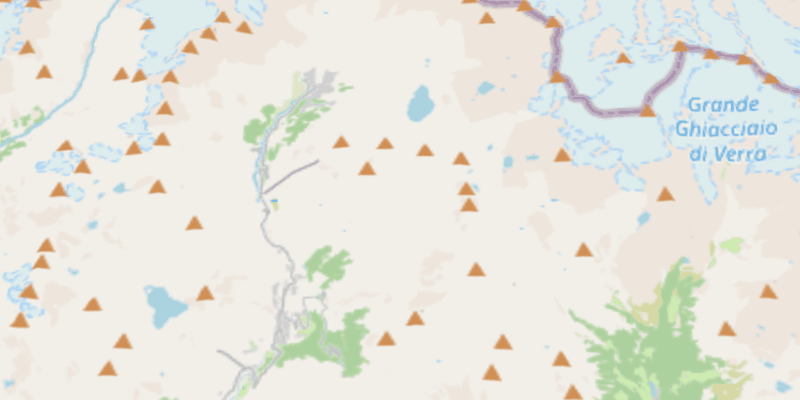
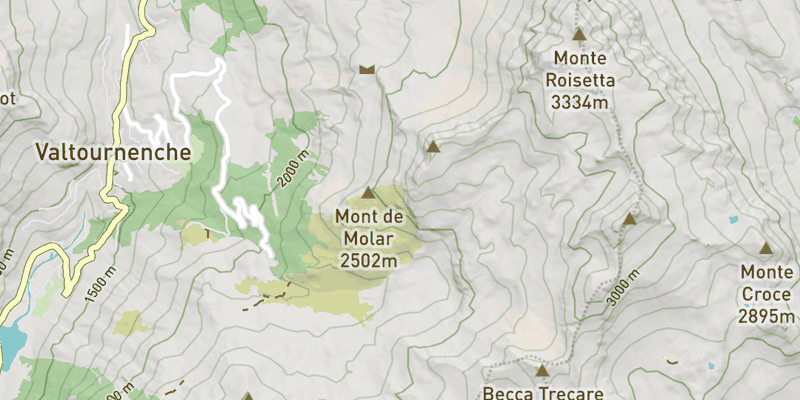
feat(demo): show the 2D/3D switch on a composite layer an app would actually ship (#253)
* fix(styles): make the demo's hillshade relief readable instead of almost invisible

The `#hillshade` slot was drawing all along - placed, configured, and loading its DEM -
but `hillshade-contrast: 0.26` against this pale palette put the lit and shaded slopes
within a couple of grey levels of each other, so the relief could not be read.

Measured with devtap diff, top-down at Valtournenche z12.5: contrast 0.26 -> 0.55 moves
32-66% of the pixels in a band (mean delta 15.5), and saturates immediately after (0.55
-> 0.8 moves 2%, delta 2.5), so the remaining gain comes from exaggeration - a further
5-8% of pixels.

terrain.less is shared, so `osm`, `streets`, `outdoors` and `eink` all get the stronger
relief.

* feat(demo): show the 2D/3D switch on a composite layer an app would actually ship

The example switched a RASTER basemap, which is the one case where flattening is cheap -
so it demonstrated the switch without demonstrating what the switch costs. It now drives
the demo's own OSM style (23 layers over nine .less files, its own fonts and shields)
through a CompositeVectorTileLayer with a hillshade and generated contours woven into the
style's layer order, plus a shadows toggle.

One DEM behind all three consumers - the terrain mesh, the hillshade slot and the contour
generator - so a tile is fetched, cached and decoded once. The slots need no style edit:
base.json already lists `hillshade` and `contour`, between `transportation` and
[…]

diff --git a/scripts/android-dev/app/src/main/assets/style/shared/terrain.less b/scripts/android-dev/app/src/main/assets/style/shared/terrain.less
@@ -1,8 +1,11 @@
 #hillshade[zoom>=4][zoom<=19] {
 	hillshade-illumination-direction: 365;
 	hillshade-shadow-color: #473B24;
-	hillshade-contrast: 0.26;
-	hillshade-exaggeration: linear([view::zoom], (4, 0.6), (12, 1));
+	// The shipped 0.26 / 1.0 pair drew relief that was there but unreadable on this pale palette.
+	// Measured top-down at Valtournenche z12.5: 0.26 -> 0.55 moved half the frame's pixels, and
+	// contrast saturates past that (0.55 -> 0.8 moved 2%), so the rest comes from exaggeration.
+	hillshade-contrast: 0.55;
+	hillshade-exaggeration: linear([view::zoom], (4, 1.2), (12, 2.5));
 }
 
 #mountain_peak {

diff --git a/scripts/android-dev/app/src/main/java/com/massifmaps/MassifDemo/examples/terrain/Switch2D3DExample.java b/scripts/android-dev/app/src/main/java/com/massifmaps/MassifDemo/examples/terrain/Switch2D3DExample.java
@@ -4,26 +4,36 @@ import com.massifmaps.MassifDemo.examples.ExampleHost;
 import com.massifmaps.MassifDemo.examples.ExampleInfo;
 import com.massifmaps.MassifDemo.examples.MapExample;
 import com.massifmaps.MassifDemo.examples.Sections;
+import com.massifmaps.api.MassifLayer;
 import com.massifmaps.api.MassifMap;
+import com.massifmaps.api.MassifSource;
 import com.massifmaps.api.Position;
 import com.massifmaps.api.Spec;
 
 /**
- * The 2D/3D switch, and every way of driving it: the SDK's own animation, a tilt gesture, and the
- * app's own clock for an exact match to a camera flight.
+ * The 2D/3D switch on the map an app actually ships: a composite layer carrying the demo's own
+ * OSM style, a hillshade and contours over one shared DEM, with shadows on top. Everything that
+ * costs something when the ground moves is in the frame at once, which is the point - the switch
+ * is cheap on a raster basemap with a toy style, and that is not what an app sees.
  */
 @ExampleInfo(
     id = "terrain-2d-3d",
     title = "2D / 3D switch",
-    description = "One flag switches the map between flat and 3D terrain. Full switch decides "
-                + "whether a flat map still pays for 3D, auto by tilt lets a tilt gesture do the "
-                + "switching, and match flight drives the terrain off the camera's own clock.",
+    description = "One flag switches a composite layer - a full OSM style, hillshade and contours "
+                + "over one shared DEM - between flat and 3D terrain. Full switch decides whether a "
+                + "flat map still pays for 3D, auto by tilt lets a tilt gesture do the switching, "
+                + "match flight drives the terrain off the camera's own clock, and shadows show what "
+                + "the switch costs with a shadow pass in the frame.",
     section = Sections.TERRAIN,
     order = 15)
 public class Switch2D3DExample extends MapExample {
 
     private static final String UA =
         "MassifMapsExamples/1.0 (+https://github.com/massif-maps/MassifMaps)";
+
+    /** CompositeSourceType, as the facade takes it. RASTER is 0 and is not used here. */
+    private static final long SOURCE_HILLSHADE = 1;
+    private static final long SOURCE_VECTOR = 2;
 
     /** What the 3D view looks AT. The viewpoint it is seen from is derived - see frameFlatStart. */
     private static final Position SUMMIT = new Position(7.6586, 45.9763);
@@ -66,17 +76,43 @@ public class Switch2D3DExample extends MapExample {
         this.host = host;
         this.map = host.map();
 
-        map.addLayer("basemap", Spec.of("raster")
+        // ONE DEM behind all three consumers - the terrain mesh, the hillshade slot and the
+        // contour generator - so a tile is fetched, cached and decoded once. Given an id because
+        // the specs below reference it by name.
+        MassifSource dem = map.source("dem", dem(host));
+        // Contours are GENERATED from that DEM, as ordinary vector tiles carrying 'ele' and 'div'.
+        MassifSource contours = map.source("contours", Spec.of("contour").set("source", "dem"));
+
+        // The demo app's own OSM style, a real one: 23 layers over nine .less files, its own fonts
+        // and shields, and `hillshade` and `contour` already among its layers. A `bundle` package
+        // is the APK's assets on Android and the app bundle's files on iOS.
+        map.style("osm", Spec.of("mbvt")
+            .set("project", Spec.of("project")
+                .set("assets", Spec.of("bundle").set("path", "style"))
+                .set("name", "osm")));
+
+        // A composite layer weaves the two external sources into the STYLE's own layer order:
+        // base.json lists "hillshade" and "contour" between `transportation` and
+        // `transportation_name`, so the relief goes under the road casings and the contour labels
+        // compete with the road names for a slot - which is the ordering an app actually ships.
+        MassifLayer base = map.addLayer("basemap", Spec.of("composite-vector")
             .set("source", Spec.of("persistent-cache")
-                .set("databasePath", host.cachePath("osm-raster.db"))
+                .set("databasePath", host.cachePath("openfreemap.db"))
                 .set("capacity", 100 * 1024 * 1024)
                 .set("source", Spec.of("http")
-                    .set("url", "https://tile.openstreetmap.org/{z}/{x}/{y}.png")
-                    .set("maxZoom", 19)
-                    // OSM's tile policy REQUIRES an identifying User-Agent, or every tile is a 403.
-                    .set("HTTPHeaders", Spec.object().set("User-Agent", UA)))));
+                    .set("url", "https://tiles.openfreemap.org/planet/latest/{z}/{x}/{y}.pbf")
+                    .set("maxZoom", 14)
+                    .set("HTTPHeaders", Spec.object().set("User-Agent", UA))))
+            .set("style", "osm"));
+        // The slot NAME is the style layer name. Hillshade needs no elevation decoder passed: it
+        // reads dem_encoding off the source, which is where the terrain reads it too. Its own
+        // `#hillshade[zoom>=4][zoom<=19]` config rule is what bounds it.
+        base.call("addExternalDataSource", "hillshade", dem.handle(), SOURCE_HILLSHADE);
+        // A VECTOR slot carries no config symbolizer - the style's ordinary line and text rules
+        // zoom-filter it in the decode, and terrain.less starts the coarse divisors at zoom 12.
+        base.call("addExternalDataSource", "contour", contours.handle(), SOURCE_VECTOR);
 
-        map.terrain(Spec.of("terrain").set("source", dem(host)))
+        map.terrain(Spec.of("terrain").set("source", "dem"))
            .apply(Spec.object()
                // Configured and left on. The switch is `flattened`, and it opens flat - set BEFORE
                // any layer decodes, so not one tile is built for a 3D the map has not shown.
@@ -95,7 +131,9 @@ public class Switch2D3DExample extends MapExample {
         // The sun comes from BEHIND the camera or the face being looked at is the one in shadow.
         // This view is of the SOUTH side, so the light is south.
         map.light(Spec.of("light").set("terrainLightingEnabled", true)
-                                  .set("sunAzimuth", 170).set("sunAltitude", 42));
+                                  .set("sunAzimuth", 170).set("sunAltitude", 42)
+                                  .set("shadowStrength", 0.0)
+                                  .set("shadowSoftness", 1.5));
 
         frameFlatStart();
 
@@ -128,6 +166,16 @@ public class Switch2D3DExample extends MapExample {
                     on ? "TERRAIN_FLATTEN_MODE_FULL" : "TERRAIN_FLATTEN_MODE_RENDER");
                 host.caption(on ? "FULL: flat costs nothing, each switch re-decodes the visible tiles."
                                 : "RENDER: switching is free, but flat still carries 3D's triangles.");
+            }
+        });
+        host.toggle("Shadows", false, new ExampleHost.OnToggle() {
+            @Override
+            public void onToggle(boolean on) {
+                // 1 is the physically correct strength; 0 is off, and skips the shadow pass.
+                map.light().set("shadowStrength", on ? 1.0 : 0.0);
+                host.caption(on ? "Shadows on: watch them flatten WITH the ground, not after it - "
+                                + "the cascades follow the same ratio the terrain is ramping."
+                                : "Shadows off: no shadow pass, so the switch is as cheap as it gets.");
             }
         });
         host.toggle("Auto by tilt", false, new ExampleHost.OnToggle() {

diff --git a/scripts/ios-dev/MassifDemo/Examples/MSFSwitch2D3DExample.m b/scripts/ios-dev/MassifDemo/Examples/MSFSwitch2D3DExample.m
@@ -5,8 +5,10 @@
 #import "api/MSFMassifObject.h"
 
 /**
- * The 2D/3D switch, and every way of driving it: the SDK's own animation, a tilt gesture, and the
- * app's own clock for an exact match to a camera flight.
+ * The 2D/3D switch on the map an app actually ships: a composite layer carrying the demo's own OSM
+ * style, a hillshade and contours over one shared DEM, with shadows on top. Everything that costs
+ * something when the ground moves is in the frame at once, which is the point - the switch is cheap
+ * on a raster basemap with a toy style, and that is not what an app sees.
  *
  * The Objective-C twin of the Android example with the same id - see
  * scripts/android-dev/.../examples/terrain/Switch2D3DExample.java.
@@ -43,6 +45,9 @@ static const float kTilt3D = 20.0f;
 static const float kAutoTilt = 88.0f;
 /** How often the matched ramp samples the flight. */
 static const NSTimeInterval kTick = 0.032;
+/** CompositeSourceType, as the facade takes it. RASTER is 0 and is not used here. */
+static const int kSourceHillshade = 1;
+static const int kSourceVector = 2;
 
 static MSFSpec *dem(id<MSFExampleHost> host) {
     return [[[[MSFSpec of:@"persistent-cache"]
@@ -66,22 +71,52 @@ static MSFSpec *dem(id<MSFExampleHost> host) {
     _matchFlight = NO;
     _seconds = 2.5f;
 
-    [_map addLayer:@"basemap"
-              spec:[[MSFSpec of:@"raster"]
+    // ONE DEM behind all three consumers - the terrain mesh, the hillshade slot and the contour
+    // generator - so a tile is fetched, cached and decoded once. Given an id because the specs
+    // below reference it by name.
+    MSFMassifSource *demSource = [_map source:@"dem" spec:dem(host) error:nil];
+    // Contours are GENERATED from that DEM, as ordinary vector tiles carrying 'ele' and 'div'.
+    MSFMassifSource *contours =
+        [_map source:@"contours" spec:[[MSFSpec of:@"contour"] set:@"source" value:@"dem"] error:nil];
+
+    // The demo app's own OSM style, a real one: 23 layers over nine .less files, its own fonts and
+    // shields, and `hillshade` and `contour` already among its layers. A `bundle` package is the
+    // app bundle's files on iOS and the APK's assets on Android.
+    [_map style:@"osm"
+           spec:[[MSFSpec of:@"mbvt"]
+                   set:@"project" value:[[[MSFSpec of:@"project"]
+                       set:@"assets" value:[[MSFSpec of:@"bundle"] set:@"path" value:@"style"]]
+                       set:@"name" value:@"osm"]]
+          error:nil];
+
+    // A composite layer weaves the two external sources into the STYLE's own layer order: base.json
+    // lists "hillshade" and "contour" between `transportation` and `transportation_name`, so the
+    // relief goes under the road casings and the contour labels compete with the road names for a
+    // slot - which is the ordering an app actually ships.
+    MSFMassifLayer *base = [_map addLayer:@"basemap"
+              spec:[[[MSFSpec of:@"composite-vector"]
                       set:@"source" value:[[[[MSFSpec of:@"persistent-cache"]
-                          set:@"databasePath" value:[host cachePath:@"osm-raster.db"]]
+                          set:@"databasePath" value:[host cachePath:@"openfreemap.db"]]
                           set:@"capacity" value:@(100 * 1024 * 1024)]
                           set:@"source" value:[[[[MSFSpec of:@"http"]
-                              set:@"url" value:@"https://tile.openstreetmap.org/{z}/{x}/{y}.png"]
-                              set:@"maxZoom" value:@19]
-                              // OSM's tile policy REQUIRES an identifying User-Agent, or every tile
-                              // is a 403.
+                              set:@"url" value:@"https://tiles.openfreemap.org/planet/latest/{z}/{x}/{y}.pbf"]
+                              set:@"maxZoom" value:@14]
                               set:@"HTTPHeaders" value:[[MSFSpec object]
                                   set:@"User-Agent" value:kUserAgent]]]]
+                      set:@"style" value:@"osm"]
              error:nil];
+    // The slot NAME is the style layer name. Hillshade needs no elevation decoder passed: it reads
+    // dem_encoding off the source, which is where the terrain reads it too. Its own
+    // `#hillshade[zoom>=4][zoom<=19]` config rule is what bounds it.
+    [[base call:@"addExternalDataSource"
+           args:@[@"hillshade", @(demSource.handle), @(kSourceHillshade)] error:nil] destroy];
+    // A VECTOR slot carries no config symbolizer - the style's ordinary line and text rules
+    // zoom-filter it in the decode, and terrain.less starts the coarse divisors at zoom 12.
+    [[base call:@"addExternalDataSource"
+           args:@[@"contour", @(contours.handle), @(kSourceVector)] error:nil] destroy];
 
     MSFPropertyGroup *terrain =
-        [_map terrainWithSpec:[[MSFSpec of:@"terrain"] set:@"source" value:dem(host)] error:nil];
+        [_map terrainWithSpec:[[MSFSpec of:@"terrain"] set:@"source" value:@"dem"] error:nil];
     // Configured and left on. The switch is `flattened`, and it opens flat - set BEFORE any layer
     // decodes, so not one tile is built for a 3D the map has not shown. `flattenMode` FULL is the
     // whole way: a flat map decodes and culls as if no terrain were attached. The auto rule is off
@@ -100,10 +135,12 @@ static MSFSpec *dem(id<MSFExampleHost> host) {
                         set:@"rangeEnd" value:@8] error:nil];
     // The sun comes from BEHIND the camera or the face being looked at is the one in shadow. This
     // view is of the SOUTH side, so the light is south.
-    [_map lightWithSpec:[[[[MSFSpec of:@"light"]
+    [_map lightWithSpec:[[[[[[MSFSpec of:@"light"]
         set:@"terrainLightingEnabled" value:@YES]
         set:@"sunAzimuth" value:@170]
-        set:@"sunAltitude" value:@42] error:nil];
+        set:@"sunAltitude" value:@42]
+        set:@"shadowStrength" value:@0.0]
+        set:@"shadowSoftness" value:@1.5] error:nil];
 
     [self frameFlatStart];
 
@@ -130,6 +167,15 @@ static MSFSpec *dem(id<MSFExampleHost> host) {
         [self_->_host caption:on
             ? @"FULL: flat costs nothing, each switch re-decodes the visible tiles."
             : @"RENDER: switching is free, but flat still carries 3D's triangles."];
+    }];
+    [host toggle:@"Shadows" on:NO action:^(BOOL on) {
+        __typeof(self) self_ = weakSelf;
+        // 1 is the physically correct strength; 0 is off, and skips the shadow pass.
+        [self_->_map.light set:@"shadowStrength" value:@(on ? 1.0 : 0.0)];
+        [self_->_host caption:on
+            ? @"Shadows on: watch them flatten WITH the ground, not after it - the cascades "
+               "follow the same ratio the terrain is ramping."
+            : @"Shadows off: no shadow pass, so the switch is as cheap as it gets."];
     }];
     [host toggle:@"Auto by tilt" on:NO action:^(BOOL on) {
         __typeof(self) self_ = weakSelf;

diff --git a/tests/style/LayerConfigTest.cpp b/tests/style/LayerConfigTest.cpp
@@ -104,6 +104,33 @@ void testLayerConfig() {
         TEST_CHECK(range.first == 0 && range.second == 24, "a styling-only layer is zoom-unconstrained");
     }
 
+    // A CONFIG rule's own zoom range IS the bound, which is what lets a style say "contours from
+    // zoom 12" and have the SDK stop fetching the DEM below it rather than merely hide the lines.
+    // The shape is the alpine style project's: one bracketed rule carrying `contour-visible`, and
+    // styling-only rules beside it that must not widen the range back to 0..24.
+    {
+        Map map { Map::Settings() };
+        auto configSymbolizer = std::make_shared<ContourConfigSymbolizer>(logger);
+        configSymbolizer->getProperty("visible")->setExpression(Expression(Value(true)));
+        auto configRule = std::make_shared<Rule>("config", 12, 24, std::shared_ptr<const Filter>(),
+            std::vector<std::shared_ptr<const Symbolizer>> { configSymbolizer });
+        // The index-contour rule, and the one that labels it - both narrower, both styling only.
+        auto lineRule = std::make_shared<Rule>("line", 12, 24, geometryTypeFilter(),
+            std::vector<std::shared_ptr<const Symbolizer>> { std::make_shared<TestGeometrySymbolizer>(logger) });
+        auto textRule = std::make_shared<Rule>("text", 14, 24, geometryTypeFilter(),
+            std::vector<std::shared_ptr<const Symbolizer>> { std::make_shared<TestGeometrySymbolizer>(logger) });
+        addLayer(map, makeStyle("contour", { configRule, lineRule, textRule }));
+
+        std::pair<int, int> range = resolveLayerZoomRange(map, "contour");
+        TEST_CHECK(range.first == 12, "a bracketed config rule bounds the layer at its own min zoom");
+        TEST_CHECK(range.second == 24, "and leaves the top open");
+
+        TEST_CHECK(!resolveLayerConfig(map, "contour", 11.0f, nullptr).visible,
+                   "so the slot is not visible below the zoom the style asked for");
+        TEST_CHECK(resolveLayerConfig(map, "contour", 12.0f, nullptr).visible,
+                   "and is visible at it");
+    }
+
     // A mapnik:: variable with no feature under it is undefined, not a crash - the same
     // expression reached from anywhere else out of a tile.
     {
